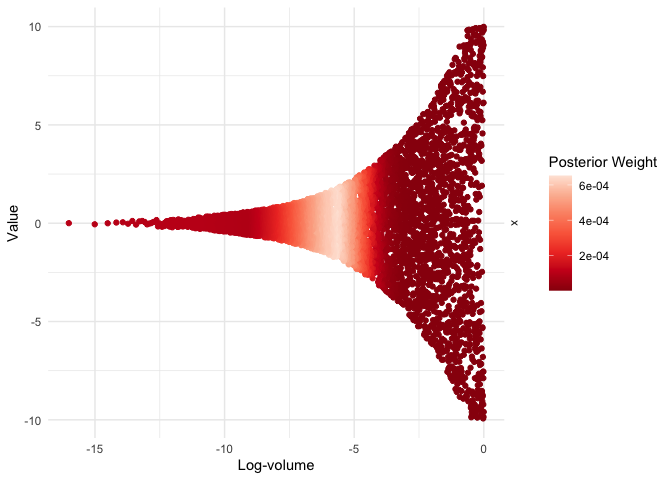
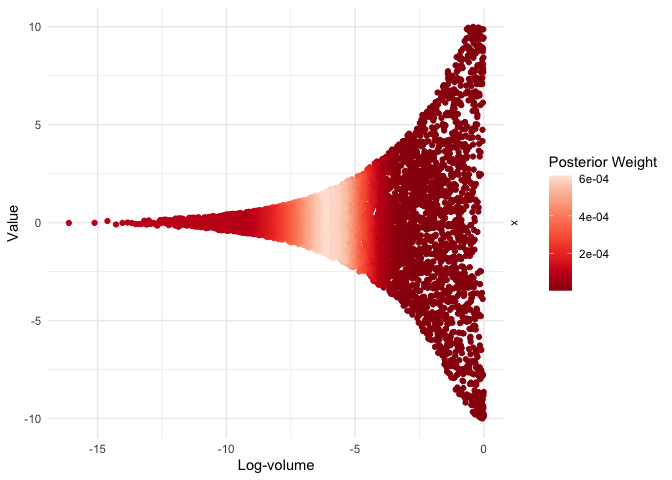
Increment version number to 1.2.3

diff --git a/README.md b/README.md
@@ -7,6 +7,7 @@
 
 [![R-CMD-check](https://github.com/ropensci/ernest/actions/workflows/R-CMD-check.yaml/badge.svg)](https://github.com/ropensci/ernest/actions/workflows/R-CMD-check.yaml)
 [![codecov](https://codecov.io/gh/ropensci/ernest/graph/badge.svg?token=6HL8L046Y7)](https://app.codecov.io/gh/ropensci/ernest)
+[![](https://badges.ropensci.org/730_status.svg)](https://github.com/ropensci/software-review/issues/730)
 
 <!-- badges: end -->
 
@@ -126,20 +127,20 @@ summary(run)
 #> Summary of nested sampling run:
 #> ── Run Information ─────────────────────────────────────────────────────────────
 #> * No. points: 500
-#> * Iterations: 4608
-#> * Likelihood evals.: 101177
-#> * Log-evidence: -8.877 (± 0.1136)
-#> * Information: 4.733
+#> * Iterations: 4663
+#> * Likelihood evals.: 102134
+#> * Log-evidence: -8.9848 (± 0.1147)
+#> * Information: 4.824
 #> ── Posterior Summary ───────────────────────────────────────────────────────────
 #> # A tibble: 3 × 6
-#>   variable    mean    sd  median   q15   q85
-#>   <chr>      <dbl> <dbl>   <dbl> <dbl> <dbl>
-#> 1 x         0.0527  2.74  0.0320 -1.75  2.05
-#> 2 y         0.0299  2.77  0.0139 -1.82  2.00
-#> 3 z        -0.0507  2.74 -0.0219 -1.84  1.80
+#>   variable     mean    sd   median   q15   q85
+#>   <chr>       <dbl> <dbl>    <dbl> <dbl> <dbl>
+#> 1 x         0.0179   2.74  0.00257 -1.82  1.93
+#> 2 y         0.00224  2.80  0.0106  -1.87  1.92
+#> 3 z        -0.0329   2.77 -0.00719 -1.91  1.96
 #> ── Maximum Likelihood Estimate (MLE) ───────────────────────────────────────────
-#> * Log-likelihood: -2.6816
-#> * Original parameters: 0.003, -0.0234, and 0.0526
+#> * Log-likelihood: -2.6812
+#> * Original parameters: -0.013, 0.0448, and 0.0196
 plot(run, which = "evidence")
 ```
 

diff --git a/NEWS.md b/NEWS.md
@@ -1,3 +1,7 @@
+# ernest 1.2.3
+
+# ernest 1.2.2
+
 # ernest 1.2.1 (2026-06-09)
 =========================
 
